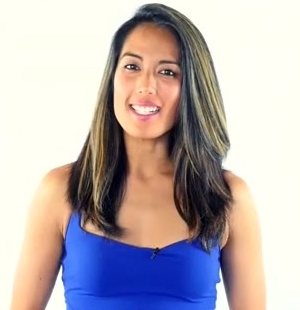
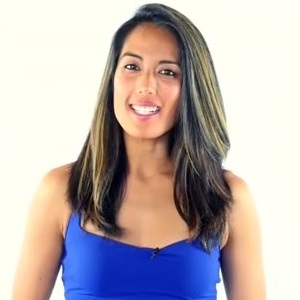
Add sally img.

diff --git a/platforms/ios/www/js/services.js b/platforms/ios/www/js/services.js
@@ -6,9 +6,9 @@ angular.module('starter.services', ["ionic", "ngCordova"])
     var naggers = [
         {
             name: 'Sally Slumpbottom',
-            face: 'http://www.afamilyatwar.com/Index%20Photos/Margery%20Mason.jpg',
+            face: 'img/SallySlumpbottom.jpg',
             level: 'Easy',
-            isUnlocked:true,
+            isUnlocked: true,
             caughtUpMessage0: 'Take a break.',
             caughtUpMessage1: 'I will nag you in a bit.',
             caughtUpMessage2: 'I have to change the litter box anyway.',
@@ -32,11 +32,11 @@ angular.module('starter.services', ["ionic", "ngCordova"])
                 hour: 0,
                 minute: 0
             }, {
-                popupId: 1,
                 title: 'Yo',
                 message: 'What up',
                 details: 'the details',
                 face: 'img/MarinProfile.jpg',
+                popupId: 1,
                 day: 990,
                 hour: 0,
                 minute: 0

diff --git a/www/js/services.js b/www/js/services.js
@@ -6,9 +6,9 @@ angular.module('starter.services', ["ionic", "ngCordova"])
     var naggers = [
         {
             name: 'Sally Slumpbottom',
-            face: 'http://www.afamilyatwar.com/Index%20Photos/Margery%20Mason.jpg',
+            face: 'img/SallySlumpbottom.jpg',
             level: 'Easy',
-            isUnlocked:true,
+            isUnlocked: true,
             caughtUpMessage0: 'Take a break.',
             caughtUpMessage1: 'I will nag you in a bit.',
             caughtUpMessage2: 'I have to change the litter box anyway.',
@@ -32,11 +32,11 @@ angular.module('starter.services', ["ionic", "ngCordova"])
                 hour: 0,
                 minute: 0
             }, {
-                popupId: 1,
                 title: 'Yo',
                 message: 'What up',
                 details: 'the details',
                 face: 'img/MarinProfile.jpg',
+                popupId: 1,
                 day: 990,
                 hour: 0,
                 minute: 0

diff --git a/platforms/ios/www/templates/tab-naggers.html b/platforms/ios/www/templates/tab-naggers.html
@@ -10,7 +10,7 @@
             <div class="item item-body">
                 <div>
                     <ion-list>
-                        <img ng-src="{{nagger.face}}">
+                        <img width="100%" ng-src="{{nagger.face}}">
                         <button class="button button-block button-assertive" ng-click="showConfirm()">
                             Cancel Nagger
                         </button>

diff --git a/www/templates/tab-naggers.html b/www/templates/tab-naggers.html
@@ -10,7 +10,7 @@
             <div class="item item-body">
                 <div>
                     <ion-list>
-                        <img ng-src="{{nagger.face}}">
+                        <img width="100%" ng-src="{{nagger.face}}">
                         <button class="button button-block button-assertive" ng-click="showConfirm()">
                             Cancel Nagger
                         </button>
